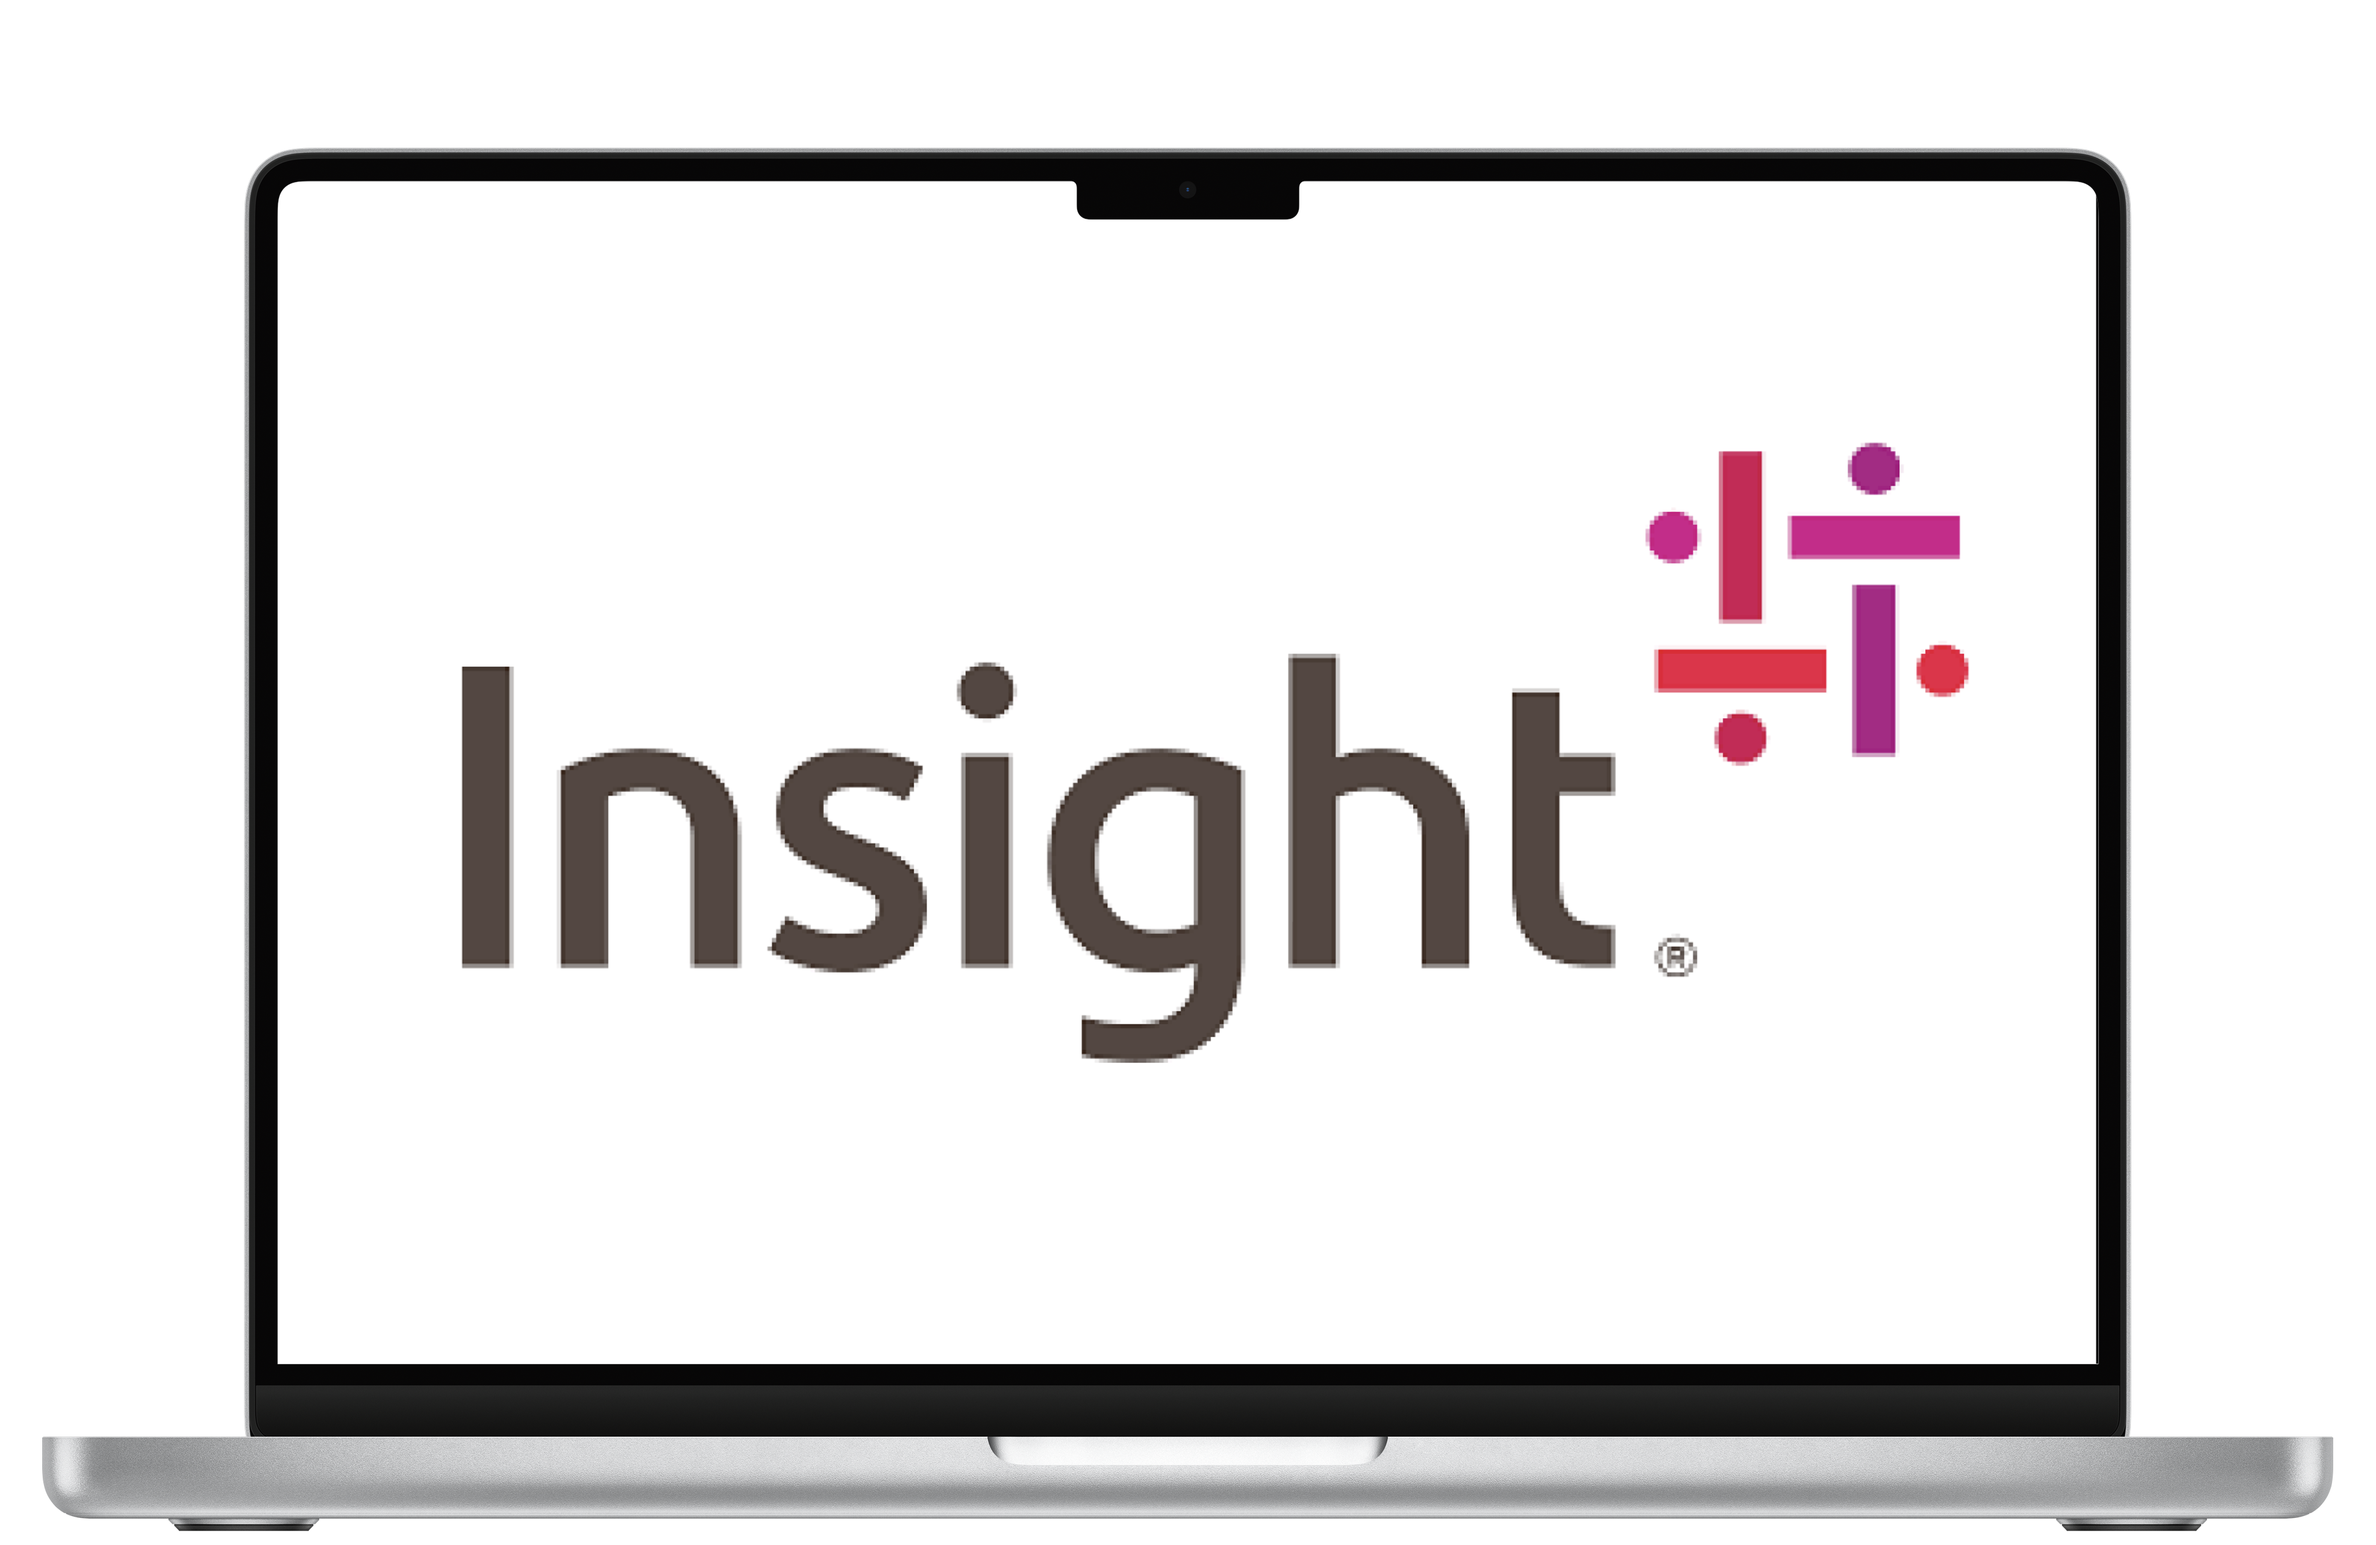
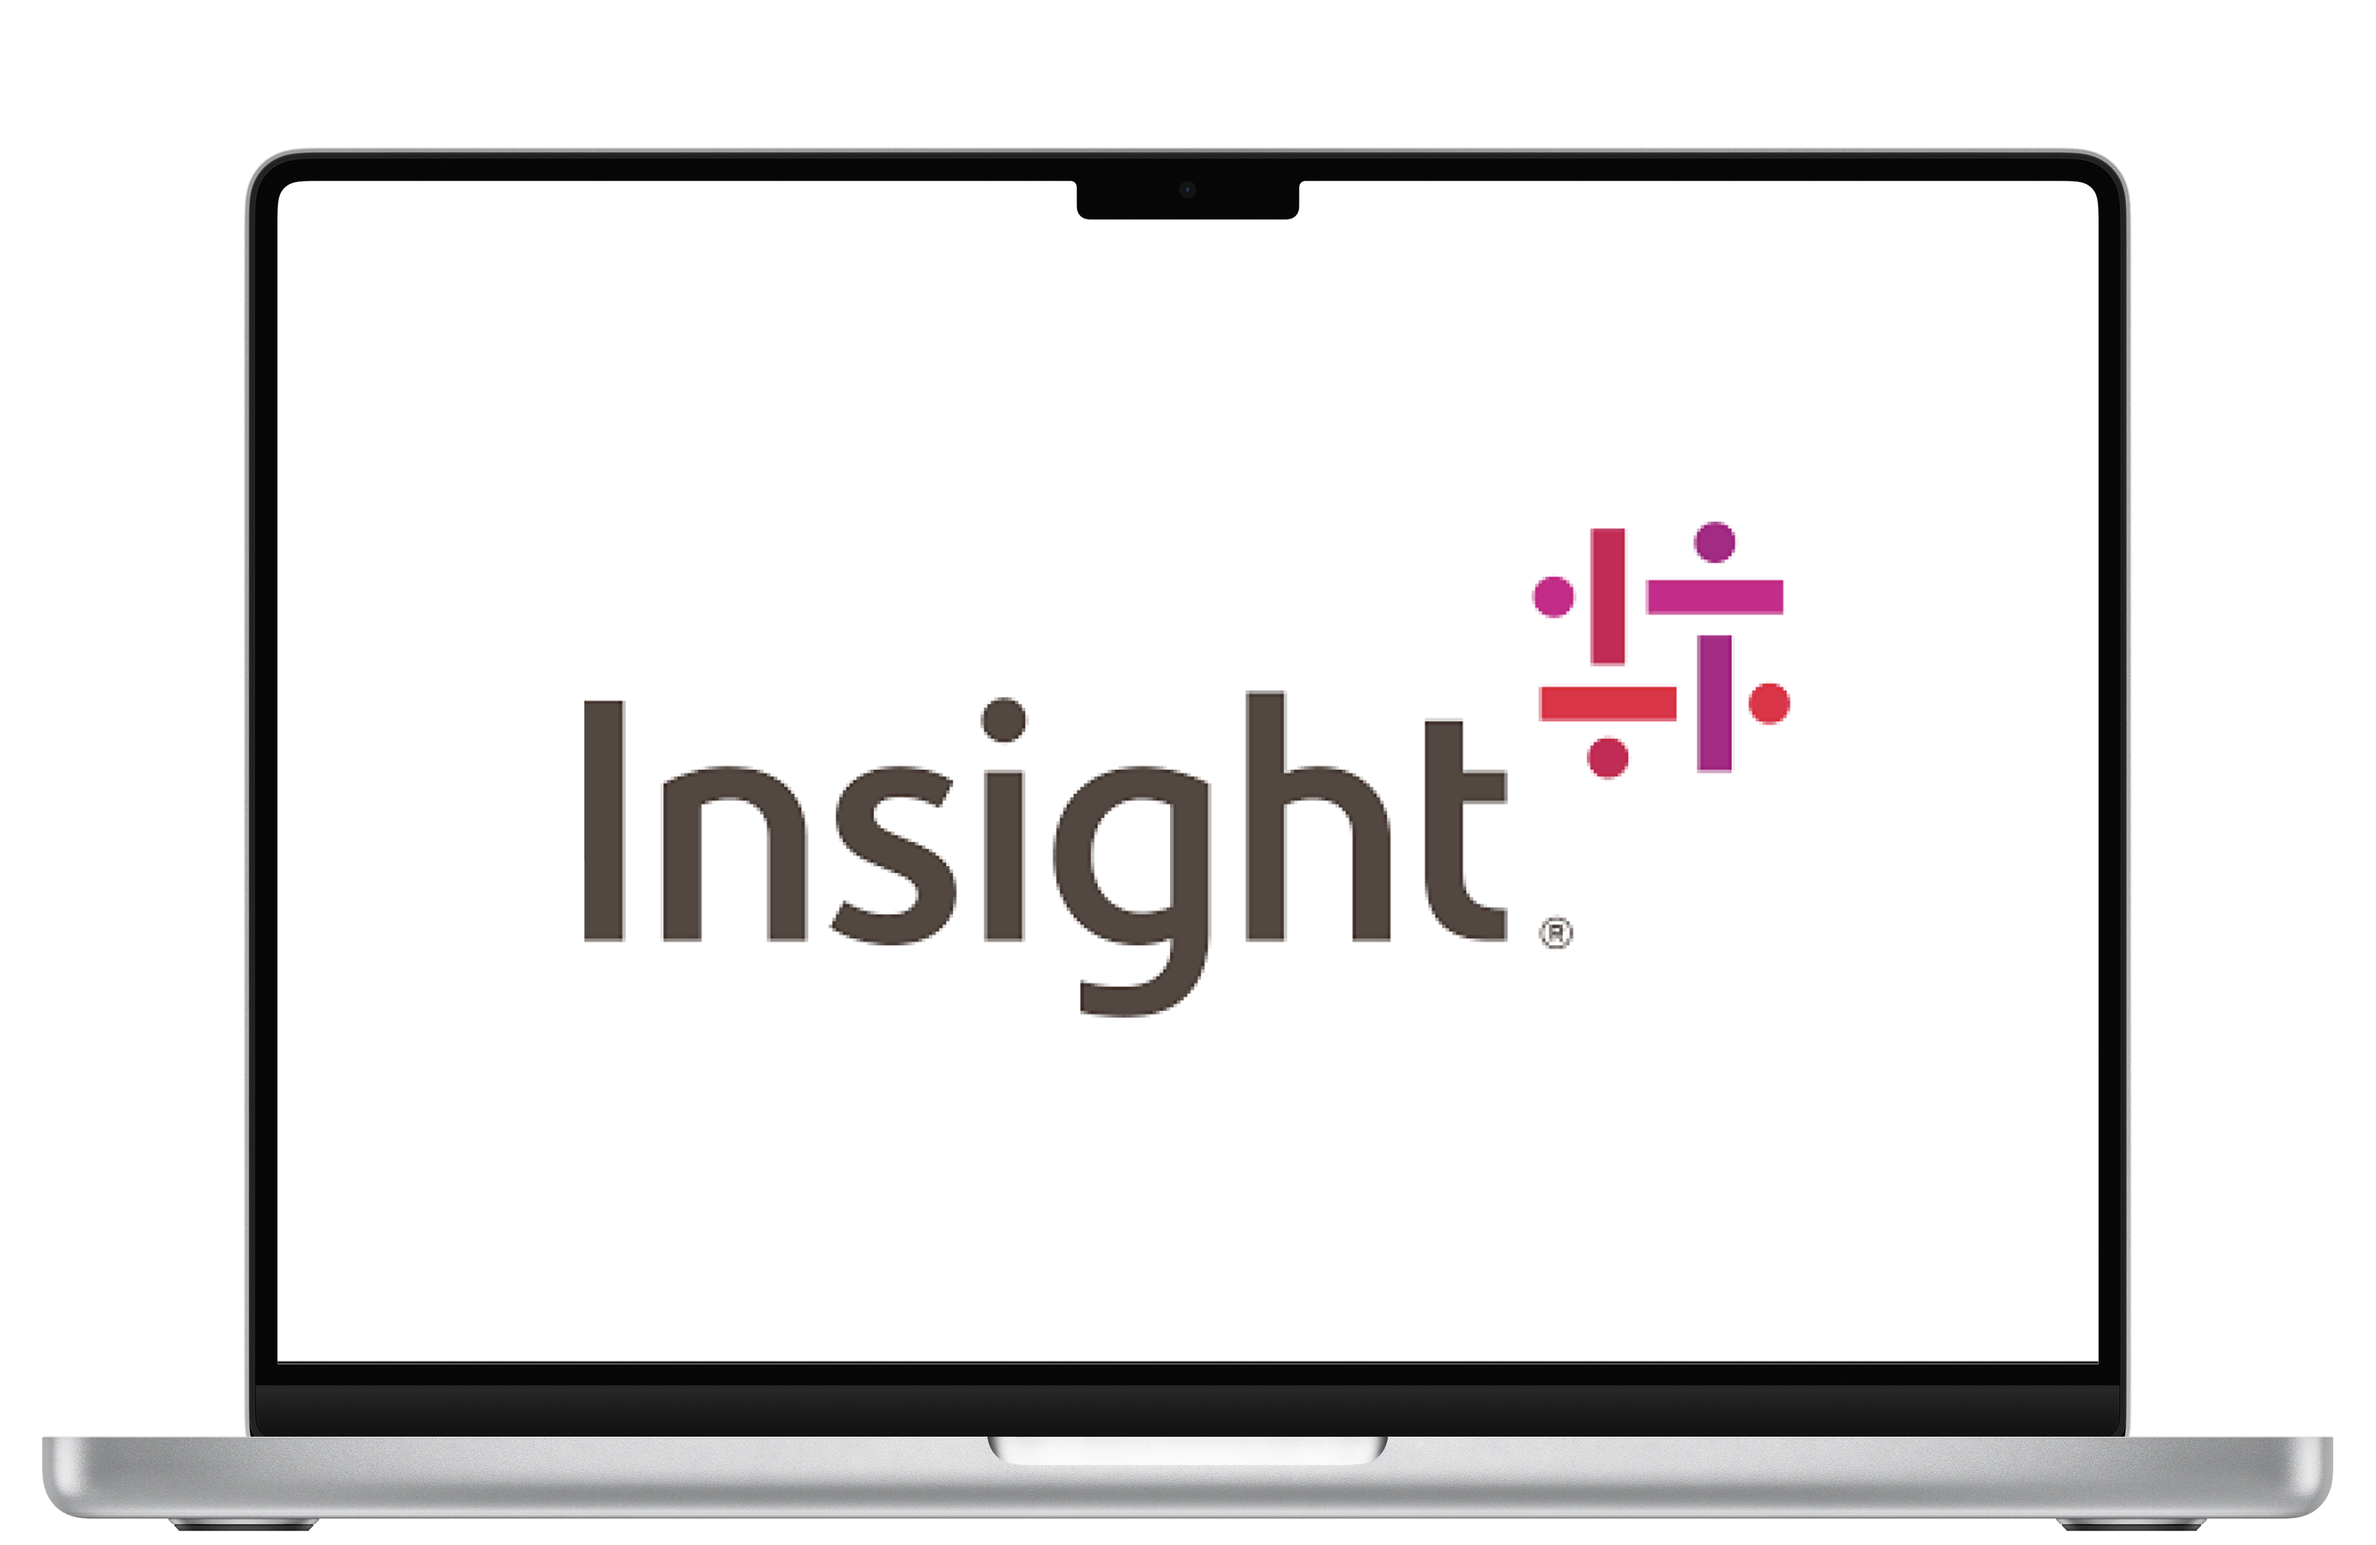
added SAQ challenge paragraph + edited layout

Changed region(s): [[0.1871, 0.2808, 0.842, 0.6864]]

diff --git a/src/SAQ.jsx b/src/SAQ.jsx
@@ -1,6 +1,6 @@
 import React, { useEffect } from "react";
 import { useTheme } from "@chakra-ui/react";
-import { Box, Flex, Wrap } from "@chakra-ui/react";
+import { Box, Flex, Wrap, Image, Center } from "@chakra-ui/react";
 import { H1, H2, H3, Body, SvgIcon, ReactIcon } from "./Custom";
 import Header from './Header';
 import Footer from './Footer';
@@ -8,6 +8,8 @@ import { useSteps } from '@chakra-ui/react';
 import StepperElem from './Stepper';
 import Icons from './Icons';
 import debounce from 'lodash.debounce';
+import SAQCover from './image/SAQCover.png';
+import InsightLogo from './image/InsightLogo.png';
 
 const SAQ = () => {
   const theme = useTheme();
@@ -64,15 +66,18 @@ const SAQ = () => {
     <>
       <Header />
       <Box p={"3rem 5rem"} w={'100%'} bg={colors.gradient}>
-        <Flex bg={colors.white} w={'100%'} height={'fit-content'} py={"5rem"} flexDirection={'column'} justify={'center'} align={'center'}>
-          <H1 text="SAQ Assistant" />
+        <Flex bg={colors.white} w={'100%'} height={'fit-content'} pb={"5rem"} flexDirection={'column'} justify={'center'} align={'center'}>
+          <Center width={'100%'} height={'40vmin'} bg={"#FFFFFF"} >
+            <Image src={InsightLogo} alt={'SAQ Assistant Cover'} width={'auto'} height={'20vmin'}/>
+          </Center>
+          <H1 text="SAQ Assistant" pt={'2rem'} />
           <i><Body text={"\"We've been waiting for a tool like this for so long! This will significantly boost our productivity!\" - user"} my={'2rem'}/></i>
           <Box width={"70vw"} display={'grid'} my={'2rem'}>
             <H3 text={"Overview"}/>
             <Body text={"SAQ Assistant is a RAG-based generative AI chatbot web application specifically tailored for an internal team at Insight Enterprises, Inc."} />
           </Box>
           <Box width={"70vw"} display={'grid'} gridTemplateColumns={'repeat(2, 25% 70%)'} gap={'5%'}>
-            <Box>
+            <Flex flexDirection={'column'}>
               <Box my={'2rem'}>
                 <H3 text={"My Roles"}/>
                 <Body text={"UX Research"} />
@@ -99,16 +104,28 @@ const SAQ = () => {
                 <H3 text={"Project Duration"}/>
                 <Body text={"10 weeks"} />
               </Box>
-            </Box>
+            </Flex>
 
-            <Box>
+            <Flex flexDirection={'column'} justify={'space-between'} >
               <Box my={'2rem'}>
                 <H3 text={"The Challenge"}/>
                 <Body text={
-                  `Users had to answer questionnaires based on documents, some containing over 300 questions. 
-                  This process was highly time-consuming. The existing workflow required users to flip through 
-                  multiple documents to find answers, adding to the complexity. Furthermore, many questions across 
-                  different questionnaires were similar, leading to redundant searches and further increasing the time spent.`} />
+                  `Every Insight customer submits a Security Assessment Questionnaire (SAQ) to inquire about Insight's 
+                  policies and processes for implementing new security measures. These questionnaires can be quite 
+                  lengthy, ranging from 20 to 300 questions. Currently, Insight's SAQ team manually reviews and answers 
+                  these questions, with an average completion time of 7-10 days. 
+                  The process involves searching through policy documents to find the appropriate answers and sometimes 
+                  reaching out to other departments for additional information. The team then manually types all responses 
+                  into spreadsheets or various forms, even when the content is often similar and merely rephrased.`} />
+                <br/>
+                <Body text={
+                  `This manual, repetitive process is archaic and time-consuming, resulting in inconsistencies and delays in 
+                  responding to customers. These inefficiencies hinder operational effectiveness and impact customer satisfaction.`} />
+                <br/>
+                <Body text={
+                  `The challenge is to streamline and modernize this process using AI and technology to automate responses, ensure 
+                  consistency, and significantly reduce the time required to complete the questionnaires. Achieving this will enhance 
+                  efficiency, improve response times, and increase opportunities for customer engagement.`} />
               </Box>
               <Box my={'2rem'} width={'100%'}>
                 <H3 text={"The Solution"}/>
@@ -118,7 +135,7 @@ const SAQ = () => {
                   "done by another team. This project is a focus on the social/online media intelligence system while " +
                   "the one prior was on the stream analysis."} />
               </Box>
-            </Box>
+            </Flex>
             
           </Box>
           

diff --git a/src/Marta.jsx b/src/Marta.jsx
@@ -29,7 +29,7 @@ const Marta = () => {
   useEffect(() => {
     window.scrollTo(0, 0);
   }, [])
-  
+
   useEffect(() => {
     const handleScroll = debounce(() => {
       const scrollPosition = window.scrollY;
@@ -76,7 +76,7 @@ const Marta = () => {
             "the one prior was on the stream analysis."} />
           </Box>
           <Box width={"70vw"} display={'grid'} gridTemplateColumns={'repeat(2, 25% 70%)'} gap={'5%'}>
-            <Box>
+            <Flex flexDirection={'column'}>
               <Box my={'2rem'}>
                 <H3 text={"My Roles"}/>
                 <Body text={"UI Design"} />
@@ -103,9 +103,9 @@ const Marta = () => {
                 <H3 text={"Project Duration"}/>
                 <Body text={"10 weeks"} />
               </Box>
-            </Box>
+            </Flex>
 
-            <Box>
+            <Flex flexDirection={'column'} justify={'space-between'} >
               <Box my={'2rem'}>
                 <H3 text={"The Challenge"}/>
                 <Body text={"Neurotime is a research lab based in Azerbaijan focused on creating " +
@@ -122,7 +122,7 @@ const Marta = () => {
                   "done by another team. This project is a focus on the social/online media intelligence system while " +
                   "the one prior was on the stream analysis."} />
               </Box>
-            </Box>
+            </Flex>
             
           </Box>
           

diff --git a/src/Med.jsx b/src/Med.jsx
@@ -29,7 +29,7 @@ const Med = () => {
   useEffect(() => {
     window.scrollTo(0, 0);
   }, [])
-  
+
   useEffect(() => {
     const handleScroll = debounce(() => {
       const scrollPosition = window.scrollY;
@@ -76,7 +76,7 @@ const Med = () => {
             "the one prior was on the stream analysis."} />
           </Box>
           <Box width={"70vw"} display={'grid'} gridTemplateColumns={'repeat(2, 25% 70%)'} gap={'5%'}>
-            <Box>
+            <Flex flexDirection={'column'} >
               <Box my={'2rem'}>
                 <H3 text={"My Roles"}/>
                 <Body text={"UI Design"} />
@@ -103,9 +103,9 @@ const Med = () => {
                 <H3 text={"Project Duration"}/>
                 <Body text={"10 weeks"} />
               </Box>
-            </Box>
+            </Flex>
 
-            <Box>
+            <Flex flexDirection={'column'} justify={'space-between'} >
               <Box my={'2rem'}>
                 <H3 text={"The Challenge"}/>
                 <Body text={"Neurotime is a research lab based in Azerbaijan focused on creating " +
@@ -122,7 +122,7 @@ const Med = () => {
                   "done by another team. This project is a focus on the social/online media intelligence system while " +
                   "the one prior was on the stream analysis."} />
               </Box>
-            </Box>
+            </Flex>
             
           </Box>
           

diff --git a/src/HT.jsx b/src/HT.jsx
@@ -29,7 +29,7 @@ const HT = () => {
   useEffect(() => {
     window.scrollTo(0, 0);
   }, [])
-  
+
   useEffect(() => {
     const handleScroll = debounce(() => {
       const scrollPosition = window.scrollY;
@@ -76,7 +76,7 @@ const HT = () => {
             "the one prior was on the stream analysis."} />
           </Box>
           <Box width={"70vw"} display={'grid'} gridTemplateColumns={'repeat(2, 25% 70%)'} gap={'5%'}>
-            <Box>
+            <Flex flexDirection={'column'} >
               <Box my={'2rem'}>
                 <H3 text={"My Roles"}/>
                 <Body text={"UI Design"} />
@@ -103,9 +103,9 @@ const HT = () => {
                 <H3 text={"Project Duration"}/>
                 <Body text={"10 weeks"} />
               </Box>
-            </Box>
+            </Flex>
 
-            <Box>
+            <Flex flexDirection={'column'} justify={'space-between'} >
               <Box my={'2rem'}>
                 <H3 text={"The Challenge"}/>
                 <Body text={"Neurotime is a research lab based in Azerbaijan focused on creating " +
@@ -122,7 +122,7 @@ const HT = () => {
                   "done by another team. This project is a focus on the social/online media intelligence system while " +
                   "the one prior was on the stream analysis."} />
               </Box>
-            </Box>
+            </Flex>
             
           </Box>
           

diff --git a/src/Project.jsx b/src/Project.jsx
@@ -4,8 +4,8 @@ import { Box, Flex, SimpleGrid } from "@chakra-ui/react";
 import { H1, ProjBlock, SkillTag } from "./Custom";
 import Header from './Header';
 import Footer from './Footer';
-import SAQCover from './image/SAQCover.png'
-import medCover from './image/medCover.png'
+import SAQCover from './image/SAQCover.png';
+import medCover from './image/medCover.png';
 
 const Project = () => {
 
@@ -29,7 +29,7 @@ const Project = () => {
               themeColor={"linear-gradient(45deg, rgba(174, 10, 70, 0.8) 0%, rgba(168, 11, 110, 0.8) 30%, rgba(88, 40, 115, 0.8) 75%)"}
               darkMode={true}
               date={"Jun 2024 - Aug 2024"}
-              desc={"A RAG-based generative AI chatbot"}
+              desc={"A RAG-based generative AI chatbot web application"}
               skills={
                 <>
                 <SkillTag label={'UX Research'} bg={colors.mauve} />
@@ -42,7 +42,7 @@ const Project = () => {
             <ProjBlock 
               title="360Med" 
               link="/360med" 
-              themeColor={"linear-gradient(45deg, #FFFEF2 0%, #c2edce 80%, #6fb3b8 95%)"}
+              themeColor={"linear-gradient(45deg, #FFFEF2 0%, #c2edce 30%, #6fb3b8 75%)"}
               darkMode={false}
               date={"Aug 2023 - Dec 2023"}
               desc={"A web application for medical databases"}
